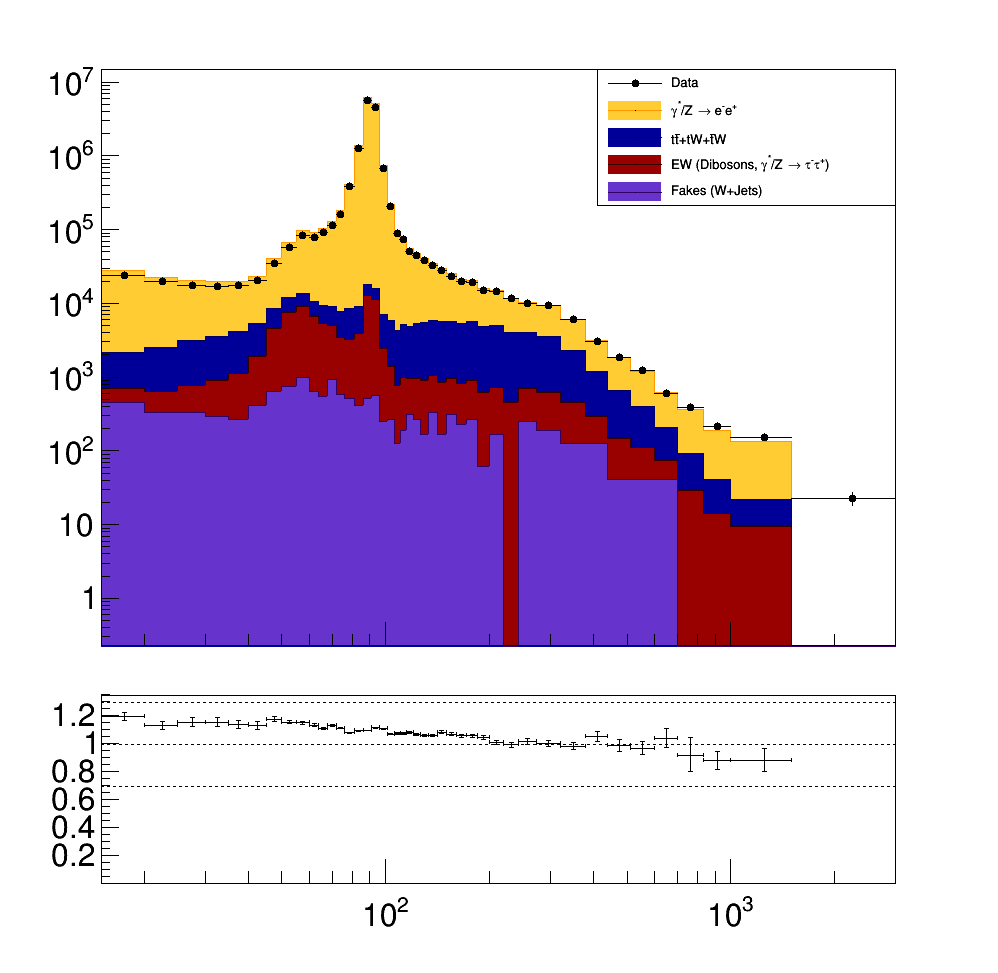
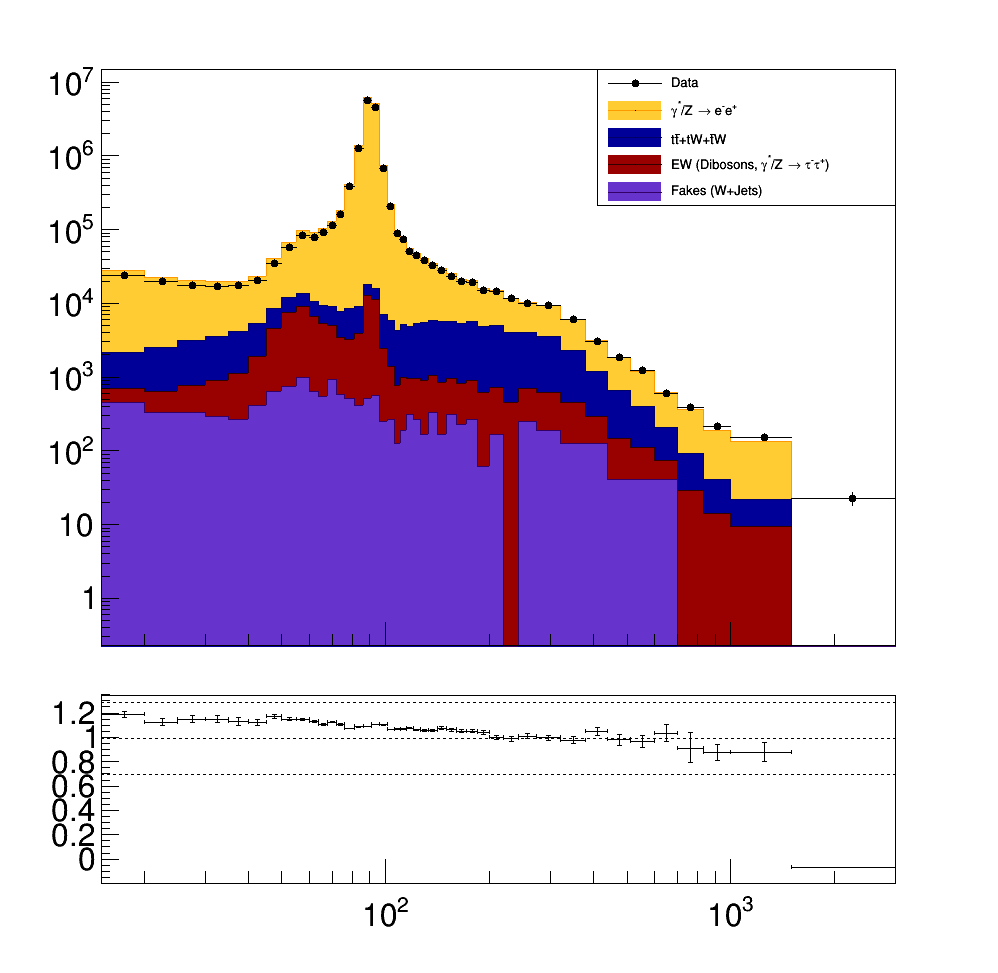
plots

diff --git a/drawDataVsMC.C b/drawDataVsMC.C
@@ -3,6 +3,7 @@
 #include "TCanvas.h"
 #include "TH1F.h"
 #include "TH2F.h"
+#include "THStack.h"
 #include "TRatioPlot.h"
 
 
@@ -60,9 +61,8 @@ void drawDataVsMC()
   
 //Place histograms into stacks
   THStack*hStack = new THStack("hStack","");
-  hStack->SetMinimum(axisLow);
   THStack*hStacklinear = new THStack("hStacklinear","");
-  hStacklinear->SetMinimum(axisLow);
+
   for(int i=0;i<nHistos;i++) {
     if(i==BINS_DATA||i==BINS_DATA_LINEAR) continue;
     if(i%2!=0) {
@@ -72,7 +72,12 @@ void drawDataVsMC()
       hStack->Add(histos[i]);
     }
   }  
-  
+
+  hStack->SetMinimum(axisLow);
+  //hStack->GetXaxis()->SetTitle("Dielectron invariant mass [GeV]");
+  hStacklinear->SetMinimum(axisLow);
+  //hStacklinear->GetXaxis()->SetTitle("Dielectron invariant mass [GeV]");
+
   TCanvas*canvas1 = new TCanvas("canvas1","",10,10,1000,1000);
   canvas1->SetLogx();
   canvas1->SetLogy();
@@ -96,6 +101,9 @@ void drawDataVsMC()
   canvas3->SetLogx();
   canvas3->SetLogy();
 
+  TCanvas*canvas4 = new TCanvas("canvas4","",10,10,1000,1000);
+  canvas4->SetLogy();
+
   auto hDataMCRatio = new TRatioPlot(hStack,histos[BINS_DATA]);
   hDataMCRatio->GetXaxis()->SetTitle("m_{ee} [GeV]");  
   canvas3->cd();
@@ -104,7 +112,16 @@ void drawDataVsMC()
   legend->Draw("same");
   canvas3->Update();
   
+  auto hDataMCRatiolinear = new TRatioPlot(hStacklinear,histos[BINS_DATA_LINEAR]);
+  hDataMCRatiolinear->GetXaxis()->SetTitle("m_{ee} [GeV]");  
+  canvas4->cd();
+  hDataMCRatiolinear->Draw();
+  hDataMCRatiolinear->GetUpperPad()->cd();
+  canvas4->Update();
+
+
   canvas1->SaveAs("./plots/dataVsMClog.png");
   canvas2->SaveAs("./plots/dataVsMClinear.png");
   canvas3->SaveAs("./plots/dataVsMCRatiolog.png");
+  canvas4->SaveAs("./plots/dataVsMCRatiolinear.png");
 }//end invMassDraw
